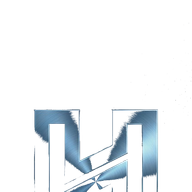
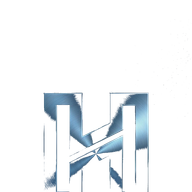
fix(brand): H header più piccola, crop 52% per H completa

Changed region(s): [[0.1562, 0.4688, 0.8438, 1.0], [0.1562, 0.7812, 0.1875, 0.9688]]

diff --git a/components/Logo.tsx b/components/Logo.tsx
@@ -14,9 +14,9 @@ export function Logo({ variant, href = '/' }: LogoProps) {
     const content = (
       <>
         <img
-          src="/brand/hubia-mark.png?v=6"
+          src="/brand/hubia-mark.png?v=7"
           alt="HUBIA"
-          className="h-10 w-10 flex-shrink-0 md:h-12 md:w-12 object-contain animate-logo-header"
+          className="h-8 w-8 flex-shrink-0 md:h-9 md:w-9 object-contain animate-logo-header"
           aria-hidden
         />
         <span className="sr-only">HUBIA</span>
